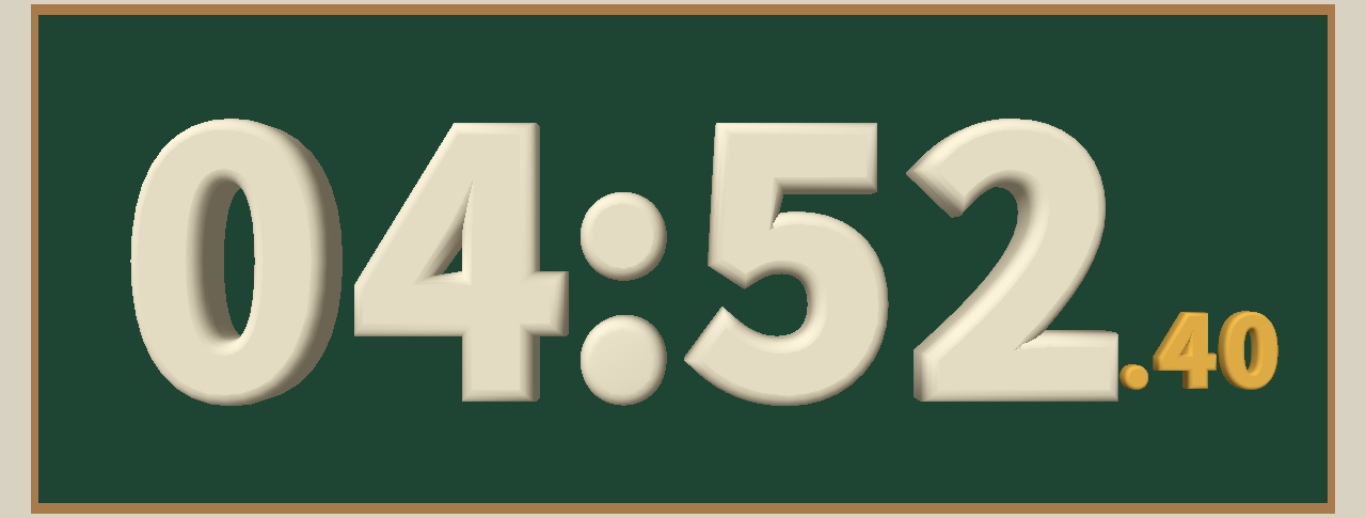
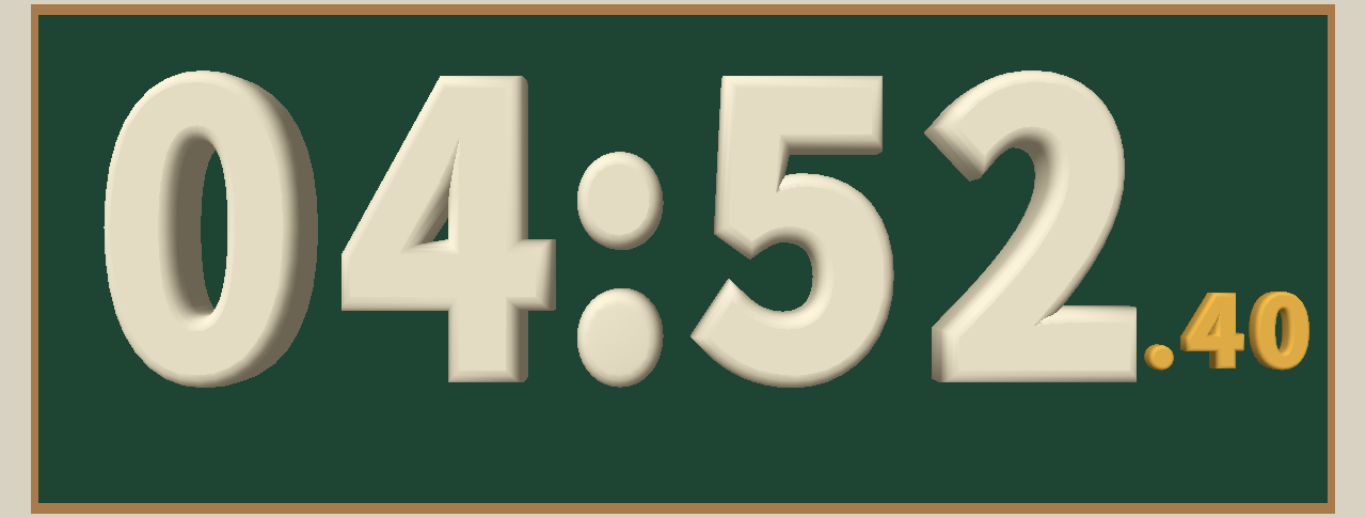
Enlarge countdown digits and align completion text across themes

Changed region(s): [[0.0615, 0.1236, 0.9839, 0.8031]]

diff --git a/dist/paper-cards.js b/dist/paper-cards.js
@@ -1,7 +1,7 @@
 // Paper is a presentation-only adapter. The scene owns the clock, RAF and draw.
 // A prepared real winner alone turns; reveal commits it without a second animation.
 import {countdownDisplay} from './space-countdown.js';
-import {countdownDigitLayout} from './countdown-digit-layout.js';
+import {countdownDigitLayout,countdownFinishLayout} from './countdown-digit-layout.js';
 
 import {PAPER_DRAW_TIMING} from './draw-timing.js';
 export {PAPER_DRAW_TIMING} from './draw-timing.js';
@@ -92,13 +92,11 @@ function rasterInkBounds(g,x,y,w,h,fallback){
 }
 function makeTimerCores(surface,chars,numeric){
  const image=surface(CORE_W*chars.length,CORE_H),g=image.getContext('2d'),cores=new Map();g.clearRect(0,0,image.width,image.height);g.fillStyle=PAPER_PALETTE.ink;g.textAlign='center';g.textBaseline='alphabetic';g.font=`600 ${TIMER_W*(numeric?.9:.76)}px ${numeric?NUMBER_FONT:FONT}`;
- const metrics=[...chars].map(char=>{const m=g.measureText(char);return {char,width:m.width,left:m.actualBoundingBoxLeft??m.width/2,right:m.actualBoundingBoxRight??m.width/2,ascent:m.actualBoundingBoxAscent??TIMER_W*(numeric?.72:.68),descent:m.actualBoundingBoxDescent??TIMER_W*(numeric?.18:0)}}),referenceH=Math.max(...metrics.map(m=>m.ascent+m.descent)),referenceW=Math.max(...metrics.map(m=>m.left+m.right)),scaleY=NUMERIC_INK_H/referenceH,scaleX=Math.min(scaleY,NUMERIC_INK_W/referenceW);
- metrics.forEach((m,index)=>{const {char,ascent,descent,left,right}=m,x=index*CORE_W;let inkBounds;
-  if(numeric){const inkW=(left+right)*scaleX,inkH=(ascent+descent)*scaleY;g.save();g.translate(x+CORE_W/2,CORE_H/2);g.scale(scaleX,scaleY);g.fillText(char,(left-right)/2,(ascent-descent)/2);g.restore();inkBounds=rasterInkBounds(g,x,0,CORE_W,CORE_H,{minX:(CORE_W-inkW)/2,maxX:(CORE_W+inkW)/2,minY:(CORE_H-inkH)/2,maxY:(CORE_H+inkH)/2})}
-  else g.fillText(char,x+CORE_W/2,CORE_H/2+(ascent-descent)/2);cores.set(char,{image,x,y:0,width:CORE_W,height:CORE_H,inkBounds})});
- // All ten glyphs share one font and one measured alphabet scale. Natural
- // overshoots remain; no digit-specific font or card sizing changes on a tick.
- if(numeric){const alphabetHeight=Math.max(...[...cores.values()].map(c=>c.inkBounds.maxY-c.inkBounds.minY)),alphabetWidth=Math.max(...[...cores.values()].map(c=>c.inkBounds.maxX-c.inkBounds.minX));for(const c of cores.values())Object.assign(c,{alphabetHeight,alphabetWidth})}
+ const metrics=[...chars].map(char=>{const m=g.measureText(char);return {char,width:m.width,left:m.actualBoundingBoxLeft??m.width/2,right:m.actualBoundingBoxRight??m.width/2,ascent:m.actualBoundingBoxAscent??TIMER_W*(numeric?.72:.68),descent:m.actualBoundingBoxDescent??TIMER_W*(numeric?.18:0)}}),referenceH=Math.max(...metrics.map(m=>m.ascent+m.descent)),referenceW=Math.max(...metrics.map(m=>m.left+m.right)),scaleY=numeric?NUMERIC_INK_H/referenceH:Math.min((CORE_H-32)/referenceH,(CORE_W-24)/referenceW),scaleX=numeric?Math.min(scaleY,NUMERIC_INK_W/referenceW):scaleY;
+ metrics.forEach((m,index)=>{const {char,ascent,descent,left,right}=m,x=index*CORE_W,inkW=(left+right)*scaleX,inkH=(ascent+descent)*scaleY;g.save();g.translate(x+CORE_W/2,CORE_H/2);g.scale(scaleX,scaleY);g.fillText(char,(left-right)/2,(ascent-descent)/2);g.restore();const inkBounds=rasterInkBounds(g,x,0,CORE_W,CORE_H,{minX:(CORE_W-inkW)/2,maxX:(CORE_W+inkW)/2,minY:(CORE_H-inkH)/2,maxY:(CORE_H+inkH)/2});cores.set(char,{image,x,y:0,width:CORE_W,height:CORE_H,inkBounds})});
+ // Each alphabet shares one measured scale. Raster bounds include real CJK
+ // strokes and numeral overshoots without resizing a card on a timer tick.
+ const alphabetHeight=Math.max(...[...cores.values()].map(c=>c.inkBounds.maxY-c.inkBounds.minY)),alphabetWidth=Math.max(...[...cores.values()].map(c=>c.inkBounds.maxX-c.inkBounds.minX));for(const c of cores.values())Object.assign(c,{alphabetHeight,alphabetWidth});
  return {image,cores}
 }
 function makeTimerCorners(surface,chars){
@@ -113,22 +111,17 @@ function makeTimerCorners(surface,chars){
 function timerComposition(display,width,height,cores){
  if(!display)return null;
  if(!display.finished)return numericTimerComposition(display,width,height,cores);
- const finished=display.finished,parts=finished?[]:display.main.split(':'),minutes=finished?'':(parts[0]||'00').padStart(2,'0'),seconds=finished?'':(parts[1]||'00').padStart(2,'0'),mainChars=finished?[...'时间到']:[...minutes+seconds].filter(char=>/^[0-9]$/.test(char)),minorChars=finished||!display.minor?[]:[...display.minor.replace(/[^0-9]/g,'').padEnd(2,'0').slice(0,2)],stacked=!finished&&minorChars.length>0&&width<600&&height>width*.64;
- const gap=.12,minorScale=.46,minorUnits=minorChars.length*minorScale+Math.max(0,minorChars.length-1)*gap*minorScale,mainUnits=finished?3+2*.16:mainChars.length+Math.max(0,mainChars.length-2)*gap+.50,bodyUnits=mainUnits+(!stacked&&minorChars.length?.23+minorUnits:0),bodyHeightUnits=1.4+(stacked?.16+minorScale*1.4:0),reservedTopSpace=Math.min(30,width*.054,height*.13)*1.4+Math.min(30,height*.055),w=Math.max(.01,Math.min(290,width*.89/bodyUnits,(height*.84-reservedTopSpace)/bodyHeightUnits)),h=w*1.4,bodyW=bodyUnits*w,bodyH=bodyHeightUnits*w,top=(height-reservedTopSpace-bodyH)/2,left=(width-bodyW)/2,cardTop=top+reservedTopSpace,mainRight=left+mainUnits*w,minorW=w*minorScale,minorH=h*minorScale,cards=[];
- const rect=(x,y,w,h)=>({minX:x,maxX:x+w,minY:y,maxY:y+h});
- function card(char,role,x,y,cw,ch){const slot=cards.length,decoration=timerDecoration(char,slot);cards.push({char,role,slot,decoration,faceKey:`${char}:${decoration.suit}`,cornerLayout:TIMER_CORNER,x:x+cw/2,y:y+ch/2,width:cw,height:ch,bounds:rect(x,y,cw,ch)})}
- let x=left;for(let i=0;i<mainChars.length;i++){if(!finished&&i===minutes.length)x+=w*.50;card(mainChars[i],finished?'finish':'main',x,cardTop,w,h);x+=w;if(i<mainChars.length-1&&(finished||i!==minutes.length-1))x+=w*(finished?.16:gap)}
- const colon=finished?null:{x:left+(minutes.length+(minutes.length-1)*gap+.25)*w,y:cardTop+h/2,size:w*.22,radius:w*.034,bounds:rect(left+(minutes.length+(minutes.length-1)*gap+.25-.034)*w,cardTop+h/2-w*.144,w*.068,w*.288)};
- let decimal=null;if(minorChars.length){const minorLeft=stacked?mainRight-minorUnits*w:mainRight+w*.23,minorTop=stacked?cardTop+h+w*.16:cardTop+h-minorH;minorChars.forEach((char,i)=>card(char,'hundredths',minorLeft+i*minorW*(1+gap),minorTop,minorW,minorH));const radius=w*.028,dx=minorLeft-w*.105,dy=minorTop+minorH-radius;decimal={x:dx,y:dy,radius,bounds:rect(dx-radius,dy-radius,radius*2,radius*2)}}
- // Retain the approved finish-card placement after removing the heading.
- const safeAreaTop=height*.09,safeAreaHeight=Math.min(64,width*.07,height*.13);
- const finishOffset=finished?Math.min(8,Math.max(0,8-(cardTop-safeAreaTop-safeAreaHeight)),Math.max(0,height*.97-cardTop-bodyH)):0;if(finishOffset)for(const c of cards){c.y+=finishOffset;c.bounds.minY+=finishOffset;c.bounds.maxY+=finishOffset}
- return {layout:{flow:finished?'finish':stacked?'stacked':'inline',colon,decimal,mainWidth:w,mainHeight:h,minorWidth:minorW,minorHeight:minorH,bodyOffsetY:finishOffset,bounds:{minX:left,maxX:left+bodyW,minY:cardTop+finishOffset,maxY:cardTop+bodyH+finishOffset}},cards}
+ const target=countdownFinishLayout(width,height),ink=target.height,reference=cores?.get('时'),alphabetHeight=reference?.alphabetHeight??NUMERIC_INK_H,alphabetWidth=reference?.alphabetWidth??NUMERIC_INK_H,gap=.12,w=Math.min(Math.max(ink*1.15,ink*alphabetWidth/alphabetHeight/.82),width*.94/(3+2*gap)),h=ink*1.36,bodyW=w*(3+2*gap),left=(width-bodyW)/2,cardTop=target.centerY-h/2,cards=[],rect=(x,y,w,h)=>({minX:x,maxX:x+w,minY:y,maxY:y+h});
+ for(const [slot,char]of [...'时间到'].entries()){
+  const x=left+slot*w*(1+gap),core=cores?.get(char),source=core?.inkBounds??{minX:0,maxX:alphabetWidth,minY:0,maxY:alphabetHeight},glyphScaleY=ink/alphabetHeight,glyphScaleX=Math.min(1,w*.82/(alphabetWidth*glyphScaleY)),glyphWidth=(source.maxX-source.minX)*glyphScaleY*glyphScaleX,glyphHeight=(source.maxY-source.minY)*glyphScaleY,decoration=timerDecoration(char,slot),cornerScale=ink*NUMERIC_CORNER_SCALE,cornerInk=core?.cornerInkBounds??{minX:14,maxX:56,minY:8,maxY:51},innerX=w*26/AW,innerY=h*26/AH,cornerLeft=innerX+w*.025,cornerTop=innerY+ink*.012,cornerWidth=(cornerInk.maxX-cornerInk.minX)*cornerScale,cornerHeight=(cornerInk.maxY-cornerInk.minY)*cornerScale;
+  cards.push({char,role:'finish',slot,decoration,faceKey:`${char}:${decoration.suit}`,cornerLayout:TIMER_CORNER,x:x+w/2,y:target.centerY,width:w,height:h,bounds:rect(x,cardTop,w,h),glyphHeight,glyphTargetHeight:ink,glyphScaleY,glyphScaleX,glyphBounds:rect(x+(w-glyphWidth)/2,target.centerY-glyphHeight/2,glyphWidth,glyphHeight),cornerScale,cornerOffsetX:cornerLeft-cornerInk.minX*cornerScale,cornerOffsetY:cornerTop-cornerInk.minY*cornerScale,innerFrameBounds:rect(x+innerX,cardTop+innerY,w-2*innerX,h-2*innerY),cornerEnvelopeBounds:[rect(x+cornerLeft,cardTop+cornerTop,cornerWidth,cornerHeight),rect(x+w-cornerLeft-cornerWidth,cardTop+h-cornerTop-cornerHeight,cornerWidth,cornerHeight)]})
+ }
+ return {layout:{flow:'finish',colon:null,decimal:null,mainWidth:w,mainHeight:h,minorWidth:0,minorHeight:0,finishTargetHeight:ink,bodyOffsetY:0,bounds:rect(left,cardTop,bodyW,h)},cards}
 }
 function numericTimerComposition(display,width,height,cores){
  const parts=display.main.split(':'),minutes=(parts[0]||'00').padStart(2,'0'),seconds=(parts[1]||'00').padStart(2,'0'),mainChars=[...minutes+seconds].filter(char=>/^[0-9]$/.test(char)),minorChars=display.minor?[...display.minor.replace(/[^0-9]/g,'').padEnd(2,'0').slice(0,2)]:[],stacked=minorChars.length>0&&width<600&&height>width*.64;
- // This fixed safe area preserves every approved numeric anchor and size.
- const target=countdownDigitLayout(width,height),ink=target.height,gap=.065,minorScale=.30,colonUnits=.26,minorUnits=minorChars.length*minorScale+Math.max(0,minorChars.length-1)*gap*minorScale,mainUnits=mainChars.length+Math.max(0,mainChars.length-2)*gap+colonUnits,bodyUnits=mainUnits+(!stacked&&minorChars.length?.16+minorUnits:0),w=Math.min(ink*.8,width*.94/bodyUnits),h=ink*1.36,minorW=w*minorScale,minorH=h*minorScale,bodyW=bodyUnits*w,bodyH=h+(stacked?w*.16+minorH:0),left=(width-bodyW)/2,rect=(x,y,w,h)=>({minX:x,maxX:x+w,minY:y,maxY:y+h}),minTop=height*.09+Math.min(64,width*.07,height*.13)+Math.min(8,Math.max(1,height*.02)),cardTop=Math.max(minTop,Math.min(height*.53-bodyH/2,height-height*.01-bodyH)),cards=[];
+ // The heading is gone, so use the full viewport for the enlarged cards.
+ const target=countdownDigitLayout(width,height),ink=target.height,gap=.065,minorScale=.30,colonUnits=.26,minorUnits=minorChars.length*minorScale+Math.max(0,minorChars.length-1)*gap*minorScale,mainUnits=mainChars.length+Math.max(0,mainChars.length-2)*gap+colonUnits,bodyUnits=mainUnits+(!stacked&&minorChars.length?.16+minorUnits:0),w=Math.min(ink*.8,width*.94/bodyUnits),h=ink*1.36,minorW=w*minorScale,minorH=h*minorScale,bodyW=bodyUnits*w,bodyH=h+(stacked?w*.16+minorH:0),left=(width-bodyW)/2,rect=(x,y,w,h)=>({minX:x,maxX:x+w,minY:y,maxY:y+h}),minTop=height*.01,cardTop=Math.max(minTop,Math.min(target.centerY-h/2,height-minTop-bodyH)),cards=[];
  function card(char,role,x,y,cw,ch,scale){const slot=cards.length,decoration=timerDecoration(char,slot),core=cores?.get(char),source=core?.inkBounds,sourceWidth=source?source.maxX-source.minX:NUMERIC_INK_W,sourceHeight=source?source.maxY-source.minY:NUMERIC_INK_H,glyphTargetHeight=ink*scale,glyphScaleY=glyphTargetHeight/(core?.alphabetHeight??NUMERIC_INK_H),glyphHeight=sourceHeight*glyphScaleY,glyphScaleX=Math.min(1,cw*.82/((core?.alphabetWidth??NUMERIC_INK_W)*glyphScaleY)),glyphWidth=sourceWidth*glyphScaleY*glyphScaleX,cornerScale=glyphTargetHeight*NUMERIC_CORNER_SCALE,cornerInk=core?.cornerInkBounds??{minX:5,maxX:110,minY:7,maxY:57},innerX=cw*26/AW,innerY=ch*26/AH,cornerLeft=innerX+cw*.025,cornerTop=innerY+glyphTargetHeight*.012,cornerWidth=(cornerInk.maxX-cornerInk.minX)*cornerScale,cornerHeight=(cornerInk.maxY-cornerInk.minY)*cornerScale;
   // A single measured envelope covers all ten ranks and four suits. Insets
   // and alphabet scaling therefore stay fixed when any displayed digit changes.
@@ -140,8 +133,7 @@ function numericTimerComposition(display,width,height,cores){
  return {layout:{flow:stacked?'stacked':'inline',colon,decimal,mainWidth:w,mainHeight:h,minorWidth:minorW,minorHeight:minorH,digitTargetHeight:ink,bodyOffsetY:0,bounds:{minX:left,maxX:left+bodyW,minY:cardTop,maxY:cardTop+bodyH}},cards}
 }
 function paintTimerCard(g,c,face,front,shadow){const {minX:x,minY:y}=c.bounds,r=c.width*.035;g.save();g.globalAlpha=.78;g.drawImage(shadow,x-c.width*.15,y-c.height*.06,c.width*1.30,c.height*1.19);g.restore();g.fillStyle='#b8a9ac';rounded(g,x,y+c.width*.010,c.width,c.height,r);g.fill();g.save();rounded(g,x,y,c.width,c.height,r);g.clip();g.translate(x,y);const {core,corner}=face;
- if(c.role==='finish'){g.scale(c.width/TIMER_W,c.height/TIMER_H);g.drawImage(front,0,0,TIMER_W,TIMER_H);g.drawImage(core.image,core.x,core.y,core.width,core.height,(TIMER_W-CORE_W)/2,(TIMER_H-CORE_H)/2,CORE_W,CORE_H);for(let i=0;i<2;i++){g.save();if(i){g.translate(TIMER_W,TIMER_H);g.rotate(Math.PI)}g.drawImage(corner.image,corner.x,corner.y,corner.width,corner.height,CORNER_X,CORNER_Y,CORNER_W,CORNER_H);g.restore()}}
- else{g.drawImage(front,0,0,c.width,c.height);const b=core.inkBounds,scale=c.glyphScaleY,dw=CORE_W*scale*c.glyphScaleX,dh=CORE_H*scale;g.drawImage(core.image,core.x,core.y,core.width,core.height,c.width/2-(b.minX+b.maxX)/2*scale*c.glyphScaleX,c.height/2-(b.minY+b.maxY)/2*scale,dw,dh);for(let i=0;i<2;i++){g.save();if(i){g.translate(c.width,c.height);g.rotate(Math.PI)}g.drawImage(corner.image,corner.x,corner.y,corner.width,corner.height,c.cornerOffsetX,c.cornerOffsetY,corner.width*c.cornerScale,corner.height*c.cornerScale);g.restore()}}
+ g.drawImage(front,0,0,c.width,c.height);const b=core.inkBounds,scale=c.glyphScaleY,dw=CORE_W*scale*c.glyphScaleX,dh=CORE_H*scale;g.drawImage(core.image,core.x,core.y,core.width,core.height,c.width/2-(b.minX+b.maxX)/2*scale*c.glyphScaleX,c.height/2-(b.minY+b.maxY)/2*scale,dw,dh);for(let i=0;i<2;i++){g.save();if(i){g.translate(c.width,c.height);g.rotate(Math.PI)}g.drawImage(corner.image,corner.x,corner.y,corner.width,corner.height,c.cornerOffsetX,c.cornerOffsetY,corner.width*c.cornerScale,corner.height*c.cornerScale);g.restore()}
  g.restore();g.strokeStyle='rgba(249,242,237,.88)';g.lineWidth=Math.min(1,c.width*.006);rounded(g,x+.4,y+.4,c.width-.8,c.height-.8,r);g.stroke()}
 function makeShadow(surface){const c=surface(320,432),g=c.getContext('2d');g.save();g.translate(160,216);g.scale(149,199);const fill=g.createRadialGradient(0,0,0,0,0,1);fill.addColorStop(0,'rgba(14,3,10,.57)');fill.addColorStop(.5,'rgba(14,3,10,.36)');fill.addColorStop(.78,'rgba(14,3,10,.12)');fill.addColorStop(1,'rgba(14,3,10,0)');g.fillStyle=fill;g.fillRect(-1,-1,2,2);g.restore();return c}
 function makeBackground(surface,w,h,dpr){const c=surface(Math.max(1,Math.round(w*dpr)),Math.max(1,Math.round(h*dpr))),g=c.getContext('2d');g.scale(dpr,dpr);const base=g.createLinearGradient(0,0,w*.3,h);base.addColorStop(0,'#462231');base.addColorStop(.6,'#351923');base.addColorStop(1,'#25131c');g.fillStyle=base;g.fillRect(0,0,w,h);const light=g.createRadialGradient(w*.46,h*.35,0,w*.46,h*.4,Math.max(w,h)*.65);light.addColorStop(0,'rgba(137,85,108,.18)');light.addColorStop(1,'rgba(18,5,13,.45)');g.fillStyle=light;g.fillRect(0,0,w,h);
@@ -202,7 +194,7 @@ export function createPaperCards(canvas,options={}){
   cards.sort((a,b)=>Number(a.selected)-Number(b.selected)||a.id-b.id)
  }
  function ensureTimerArt(finished){const cache=finished?timerFinish:timerDigits;if(cache.size)return;const chars=finished?'时间到':'0123456789',coreAtlas=makeTimerCores(surface,chars,!finished),cornerAtlas=makeTimerCorners(surface,finished?' ':chars);timerAtlases.push(coreAtlas.image,cornerAtlas.image);for(const [char,core] of coreAtlas.cores){core.cornerInkBounds=cornerAtlas.inkBounds;cache.set(char,core);const suits=finished?[SUITS[[...chars].indexOf(char)]]:SUITS;for(const suit of suits)timerFaces.set(`${char}:${suit}`,{core,corner:cornerAtlas.corners.get(`${finished?' ':char}:${suit}`)})}}
- function paintCountdown(display){ensureTimerArt(display.finished);const {layout:l,cards:timerCards}=timerComposition(display,width,height,timerDigits);
+ function paintCountdown(display){ensureTimerArt(display.finished);const {layout:l,cards:timerCards}=timerComposition(display,width,height,display.finished?timerFinish:timerDigits);
   for(const c of timerCards)paintTimerCard(g,c,timerFaces.get(c.faceKey),front,shadow);
   // Punctuation belongs to the berry table. Every changing character belongs
   // to one upright card; hundredths never animate or allocate artwork.
@@ -225,7 +217,7 @@ export function createPaperCards(canvas,options={}){
  function setActive(value){if(disposed)return;const next=!!value;if(next===active)return;active=next;if(active)render(now)}
  function setQuality(value){if(disposed)return;const next=clamp(finite(value,1),.65,1);if(next===quality)return;quality=next;resize(width,height)}
  const onMotion=e=>{reducedMotion=!!e.matches;paintKey='';render(now)};media?.addEventListener?.('change',onMotion);
- function debug(){sample();const timer=timerComposition(countdownDisplay(countdown),width,height,timerDigits),timerCount=timerDigits.size+timerFinish.size,timerBytes=timerAtlases.reduce((sum,image)=>sum+image.width*image.height*4,0);return {selectedDecoration:winner||pendingName?selectedDecoration(winner?selectedIndex:pendingIndex):null,timerLayout:timer?.layout??null,timerCards:timer?.cards??[],timerCache:{digits:timerDigits.size,finish:timerFinish.size,total:timerCount,faces:timerFaces.size,atlases:timerAtlases.length,bytes:timerBytes},mode:drawing?'drawing':winner?'selected':'idle',stage,drawing,startedAt,timing:{...timing},winner,selectedName:winner,selectedIndex,pendingName,pendingIndex,selectedSlot,resultSettling:!!winner&&transitionPhase()<1,names:[...names],countdown:countdown?{...countdown}:null,width,height,dpr,quality,active,reducedMotion,frame:frames,backend:'canvas',cardCount:cards.length,visibleCardCount:cards.length,textureCount:back&&!disposed?3+timerAtlases.length:0,selectedNameVisible:!countdown&&cards.some(c=>c.selected&&c.facing>.001),resultDuration:transitionDuration,transitionAt,layout:{...layout()},cards:cards.map(c=>({id:c.id,studentIndex:c.studentIndex,name:c.name,selected:c.selected,showName:c.showName,x:c.x,y:c.y,z:c.z,width:c.w,height:c.h,opacity:c.alpha,mute:c.mute,facing:c.facing,phase:c.phase,row:c.row,column:c.column,rank:c.rank,lift:c.lift,thickness:c.thickness,origin:{x:c.baseX,y:c.baseY,width:layout().w,height:layout().h},rotation:{x:c.rx,y:c.ry,z:c.rz},mesh:c.grid.map(p=>({...p})),frontRim:c.front.map(p=>({...p})),backRim:c.back.map(p=>({...p})),bounds:{minX:c.minX,maxX:c.maxX,minY:c.minY,maxY:c.maxY}})),resources:{surfaces:disposed?0:(back?4:0)+(background?1:0)+timerAtlases.length,backgroundBuilds,selectedPaints,cpuBytes:disposed?0:((back?ART_W*ART_H*3+320*432:0)+(background?background.width*background.height:0))*4+timerBytes}}}
+ function debug(){sample();const display=countdownDisplay(countdown),timer=timerComposition(display,width,height,display?.finished?timerFinish:timerDigits),timerCount=timerDigits.size+timerFinish.size,timerBytes=timerAtlases.reduce((sum,image)=>sum+image.width*image.height*4,0);return {selectedDecoration:winner||pendingName?selectedDecoration(winner?selectedIndex:pendingIndex):null,timerLayout:timer?.layout??null,timerCards:timer?.cards??[],timerCache:{digits:timerDigits.size,finish:timerFinish.size,total:timerCount,faces:timerFaces.size,atlases:timerAtlases.length,bytes:timerBytes},mode:drawing?'drawing':winner?'selected':'idle',stage,drawing,startedAt,timing:{...timing},winner,selectedName:winner,selectedIndex,pendingName,pendingIndex,selectedSlot,resultSettling:!!winner&&transitionPhase()<1,names:[...names],countdown:countdown?{...countdown}:null,width,height,dpr,quality,active,reducedMotion,frame:frames,backend:'canvas',cardCount:cards.length,visibleCardCount:cards.length,textureCount:back&&!disposed?3+timerAtlases.length:0,selectedNameVisible:!countdown&&cards.some(c=>c.selected&&c.facing>.001),resultDuration:transitionDuration,transitionAt,layout:{...layout()},cards:cards.map(c=>({id:c.id,studentIndex:c.studentIndex,name:c.name,selected:c.selected,showName:c.showName,x:c.x,y:c.y,z:c.z,width:c.w,height:c.h,opacity:c.alpha,mute:c.mute,facing:c.facing,phase:c.phase,row:c.row,column:c.column,rank:c.rank,lift:c.lift,thickness:c.thickness,origin:{x:c.baseX,y:c.baseY,width:layout().w,height:layout().h},rotation:{x:c.rx,y:c.ry,z:c.rz},mesh:c.grid.map(p=>({...p})),frontRim:c.front.map(p=>({...p})),backRim:c.back.map(p=>({...p})),bounds:{minX:c.minX,maxX:c.maxX,minY:c.minY,maxY:c.maxY}})),resources:{surfaces:disposed?0:(back?4:0)+(background?1:0)+timerAtlases.length,backgroundBuilds,selectedPaints,cpuBytes:disposed?0:((back?ART_W*ART_H*3+320*432:0)+(background?background.width*background.height:0))*4+timerBytes}}}
  resize(canvas.clientWidth||canvas.width||800,canvas.clientHeight||canvas.height||600);
  return {setNames,start,prepare,reveal,cancel,reset,setCountdown,resize,render,setActive,setQuality,debug,dispose(){if(disposed)return;disposed=true;media?.removeEventListener?.('change',onMotion);for(const image of [back,front,selected,shadow,background,...timerAtlases])if(image){image.width=1;image.height=1}back=front=selected=shadow=background=null;printedName=backgroundKey=paintKey='';printedIndex=-1;cards=[];cardPool.clear();timerDigits.clear();timerFinish.clear();timerFaces.clear();timerAtlases.length=0;layoutCache=null;layoutKey='';names=[];entries=[];winner='';selectedIndex=-1;clearPending();countdown=null}};
 }

diff --git a/dist/space-countdown.js b/dist/space-countdown.js
@@ -3,20 +3,20 @@
 // with an explicit continuous thickness layer. Neither path owns timer state.
 import * as THREE from './vendor/three.module.js';
 import {glyphs,units} from './board-glyphs.js';
-import {countdownDigitLayout} from './countdown-digit-layout.js';
+import {countdownDigitLayout,countdownFinishLayout} from './countdown-digit-layout.js';
 const metrics=new Map();
 function metric(char){
  if(metrics.has(char))return metrics.get(char);const data=glyphs[char];if(!data)return null;
  const points=data.outline.flatMap(([,p])=>p),xs=points.map(p=>p[0]/units),ys=points.map(p=>p[1]/units),m={advance:data.advance/units,minX:Math.min(...xs),maxX:Math.max(...xs),minY:Math.min(...ys),maxY:Math.max(...ys)};metrics.set(char,m);return m;
 }
 // Fixed spacing accommodates the widest digit (4) and its projected sidewalls.
-const mainGap=.085,minorGap=.065;
+const mainGap=.12,minorGap=.065;
 const numeralMetrics=[...'0123456789'].map(metric),numeralMinY=Math.min(...numeralMetrics.map(m=>m.minY)),numeralMaxY=Math.max(...numeralMetrics.map(m=>m.maxY)),numeralSpan=numeralMaxY-numeralMinY;
-function paintedNumeralSize(height){
+function paintedNumeralSize(height,span=numeralSpan){
  // Full Canvas silhouette: front outline, solid sidewall and upper bevel
  // stroke. Its minimum pixel widths matter on narrow/small viewports.
- let size=height/(numeralSpan+.052+.002);
- if(size*.004<.45){size=(height-.225)/(numeralSpan+.052);if(size*.052<1.4)size=(height-.225-1.4)/numeralSpan}
+ let size=height/(span+.052+.002);
+ if(size*.004<.45){size=(height-.225)/(span+.052);if(size*.052<1.4)size=(height-.225-1.4)/span}
  return Math.max(.001,size);
 }
 export function countdownDisplay(countdown){
@@ -27,7 +27,7 @@ export function countdownDisplay(countdown){
 export function countdownComposition(countdown,width,height,viewportWidth=width,viewportHeight=height){
  const display=countdownDisplay(countdown);if(!display)return null;const entries=[];
  function row(text,size,centerY,role,gap=.055){const widths=[...text].map(c=>(metric(c)?.advance??.59)*size),total=widths.reduce((a,b)=>a+b,0)+Math.max(0,widths.length-1)*gap*size;let x=(width-total)/2;[...text].forEach((char,i)=>{const m=metric(char);if(m)entries.push({char,role,size,x:x+widths[i]/2,y:centerY+(m.minY+m.maxY)*size/2});x+=widths[i]+gap*size});return total}
- if(display.finished){row(display.main,Math.min(width*.238,height*.51),height*.49,'finish',.105);return {display,entries}}
+ if(display.finished){const target=countdownFinishLayout(viewportWidth,viewportHeight),all=[...display.main].map(metric),maxY=Math.max(...all.map(m=>m.maxY)),minY=Math.min(...all.map(m=>m.minY)),size=paintedNumeralSize(target.height,maxY-minY),baseline=target.top-(viewportHeight*.49-height/2)+maxY*size+Math.max(.225,size*.002);row(display.main,size,0,'finish',.105);for(const e of entries)e.y=baseline;return {display,entries}}
  const target=countdownDigitLayout(viewportWidth,viewportHeight),size=paintedNumeralSize(target.height),mainUnits=[...display.main].reduce((s,c)=>s+(metric(c)?.advance??.59)+mainGap,0)-mainGap,minorUnits=[...display.minor].reduce((s,c)=>s+(metric(c)?.advance??.59)+minorGap,0)-minorGap,small=size*.29,mainWidth=mainUnits*size,minorWidth=Math.max(0,minorUnits)*small,gap=display.minor?size*.09:0,left=(width-mainWidth-minorWidth-gap)/2,baseline=target.top-(viewportHeight*.49-height/2)+numeralMaxY*size+Math.max(.225,size*.002);
  let x=left;for(const char of display.main){const m=metric(char);if(m){entries.push({char,role:'main',size,x:x+m.advance*size/2,y:baseline});x+=(m.advance+mainGap)*size}}
  x=left+mainWidth+gap;for(const char of display.minor){const m=metric(char);if(m){entries.push({char,role:'minor',size:small,x:x+m.advance*small/2,y:baseline});x+=(m.advance+minorGap)*small}}
@@ -38,6 +38,7 @@ function trace(g,char,x,y,size){
 }
 export function paintSpaceCountdown(g,countdown,w,h,viewportWidth=w,viewportHeight=h){
  const composition=countdownComposition(countdown,w,h,viewportWidth,viewportHeight);if(!composition)return false;
+ g.save();g.transform(.88,0,0,1,w*.06,0);
  for(const e of composition.entries){
   const depth=Math.max(1.4,e.size*.052),steps=Math.max(4,Math.ceil(depth)),minor=e.role==='minor',m=metric(e.char);
   // Opaque stacked outlines form visible sidewalls, not a blurred text shadow.
@@ -47,35 +48,35 @@ export function paintSpaceCountdown(g,countdown,w,h,viewportWidth=w,viewportHeig
   // A subpixel bevel catches the light without a flashing outline at small sizes.
   g.strokeStyle=minor?'rgba(210,231,255,.55)':'rgba(244,250,255,.68)';g.lineWidth=Math.max(.45,e.size*.004);g.stroke();
  }
- return true;
+ g.restore();return true;
 }
 function shapes(char){const path=new THREE.ShapePath();for(const [op,points] of glyphs[char].outline){const p=points.flat().map(n=>n/units);if(op==='moveTo')path.moveTo(...p);else if(op==='lineTo')path.lineTo(...p);else if(op==='curveTo')path.bezierCurveTo(...p);else if(op==='qCurveTo')path.quadraticCurveTo(...p);else if(op==='closePath')path.currentPath.closePath()}return path.toShapes(true)}
 function material(top,bottom,side=false){return new THREE.ShaderMaterial({uniforms:{top:{value:new THREE.Color(top)},bottom:{value:new THREE.Color(bottom)},isSide:{value:side?1:0}},vertexShader:'varying vec3 vNormal;varying vec3 vView;varying float vHeight;void main(){vec4 mv=modelViewMatrix*vec4(position,1.);vNormal=normalize(normalMatrix*normal);vView=normalize(-mv.xyz);vHeight=position.y;gl_Position=projectionMatrix*mv;}',fragmentShader:'uniform vec3 top;uniform vec3 bottom;uniform float isSide;varying vec3 vNormal;varying vec3 vView;varying float vHeight;void main(){vec3 n=normalize(vNormal),l=normalize(vec3(-.45,.8,1.1));float h=clamp((vHeight+.08)/.92,0.,1.);vec3 c=mix(bottom,top,smoothstep(0.,1.,h));float diffuse=.68+.32*max(dot(n,l),0.);float spec=pow(max(dot(reflect(-l,n),normalize(vView)),0.),28.);gl_FragColor=vec4(c*diffuse+vec3(spec*.2)*(1.-isSide*.65),1.);\n#include <colorspace_fragment>\n}',depthTest:true,depthWrite:true,transparent:false,toneMapped:false})}
 export function createCountdownMeshes(){
- const group=new THREE.Group();group.name='space-dimensional-countdown';group.visible=false;group.userData.role='space-countdown';const cache=new Map(),meshes=[],front=material('#ffffff','#a2b8e5'),side=material('#8dabe0','#34466f',true),minorFront=material('#eaf4ff','#78a8e0'),minorSide=material('#a3c5ef','#344f78',true),materials=[front,side,minorFront,minorSide];let lastKey='',updates=0,disposed=false,digitFitKey='',digitFit=null,digitEnvelope=null;
+ const group=new THREE.Group();group.name='space-dimensional-countdown';group.visible=false;group.userData.role='space-countdown';const cache=new Map(),meshes=[],front=material('#ffffff','#a2b8e5'),side=material('#8dabe0','#34466f',true),minorFront=material('#eaf4ff','#78a8e0'),minorSide=material('#a3c5ef','#344f78',true),materials=[front,side,minorFront,minorSide];let lastKey='',updates=0,disposed=false,digitFitKey='',digitFit=null,digitEnvelope=null,finishEnvelope=null;
  function geometry(char){if(cache.has(char))return cache.get(char);const g=new THREE.ExtrudeGeometry(shapes(char),{depth:.16,bevelEnabled:true,bevelSize:.012,bevelThickness:.014,bevelSegments:2,curveSegments:7,steps:1});g.computeBoundingBox();const b=g.boundingBox;g.translate(-(b.min.x+b.max.x)/2,0,-.16);g.computeBoundingBox();cache.set(char,g);return g}
- function fitDigits(focal,viewportWidth,viewportHeight,sourceSize){
+ function fitDigits(focal,viewportWidth,viewportHeight,sourceSize,finished=false){
   // Read the already-cached geometry once, retaining only its bevel/face
   // layers. Changing digits subsequently selects geometry, never measures it.
-  if(!digitEnvelope){const layers=new Map();for(const char of '0123456789'){const p=geometry(char).attributes.position;for(let i=0;i<p.count;i++){const z=p.getZ(i),y=p.getY(i),layer=layers.get(z)||{z,minY:Infinity,maxY:-Infinity};layer.minY=Math.min(layer.minY,y);layer.maxY=Math.max(layer.maxY,y);layers.set(z,layer)}}digitEnvelope=[...layers.values()]}
-  const key=[focal,viewportWidth,viewportHeight].join();
+  let envelope=finished?finishEnvelope:digitEnvelope;if(!envelope){const layers=new Map();for(const char of (finished?'时间到':'0123456789')){const p=geometry(char).attributes.position;for(let i=0;i<p.count;i++){const z=p.getZ(i),y=p.getY(i),layer=layers.get(z)||{z,minY:Infinity,maxY:-Infinity};layer.minY=Math.min(layer.minY,y);layer.maxY=Math.max(layer.maxY,y);layers.set(z,layer)}}envelope=[...layers.values()];if(finished)finishEnvelope=envelope;else digitEnvelope=envelope}
+  const key=[focal,viewportWidth,viewportHeight,finished].join();
   if(key!==digitFitKey){
-   const target=countdownDigitLayout(viewportWidth,viewportHeight),top=viewportHeight*.49-target.top,bottom=viewportHeight*.49-target.bottom;
+   const target=(finished?countdownFinishLayout:countdownDigitLayout)(viewportWidth,viewportHeight),top=viewportHeight*.49-target.top,bottom=viewportHeight*.49-target.bottom;
    // With the existing camera and group transform, a vertex projects as
    // screenY=.49*height-(baseline+size*y)/(1-size*z/focal). Solve its fixed
    // alphabet envelope directly; depth and bevels are part of the result.
-   const upper=Math.max(...digitEnvelope.map(p=>p.maxY+top*p.z/focal)),lower=Math.min(...digitEnvelope.map(p=>p.minY+bottom*p.z/focal)),size=target.height/(upper-lower);
+   const upper=Math.max(...envelope.map(p=>p.maxY+top*p.z/focal)),lower=Math.min(...envelope.map(p=>p.minY+bottom*p.z/focal)),size=target.height/(upper-lower);
    digitFit={size,baseline:top-size*upper};digitFitKey=key;
   }
   const ratio=digitFit.size/sourceSize;
-  for(const mesh of meshes){if(!mesh.visible||(mesh.userData.textRole!=='main'&&mesh.userData.textRole!=='minor'))continue;mesh.scale.multiplyScalar(ratio);mesh.position.x*=ratio;mesh.position.y=digitFit.baseline}
+  for(const mesh of meshes){if(!mesh.visible||(mesh.userData.textRole!=='main'&&mesh.userData.textRole!=='minor'&&mesh.userData.textRole!=='finish'))continue;mesh.scale.multiplyScalar(ratio);mesh.position.x*=ratio*.88;mesh.scale.x*=.88;mesh.position.y=digitFit.baseline}
  }
  function update(countdown,width,height,focal,viewportWidth=width,viewportHeight=height){
   const composition=countdownComposition(countdown,width,height,viewportWidth,viewportHeight);group.visible=!!composition;if(!composition){lastKey='';return false}const key=JSON.stringify([composition.display,width,height,focal,viewportWidth,viewportHeight]);if(key===lastKey)return false;
   // Precache the entire bounded alphabet on first use. Hundredths never build
   // geometry, allocate a texture, or upload a new Canvas image during playback.
   if(!cache.size)for(const char of new Set('0123456789:.时间到'))geometry(char);
-  const scale=2/focal;group.position.set(0,0,-2);group.scale.setScalar(scale);composition.entries.forEach((e,i)=>{let mesh=meshes[i];if(!mesh){mesh=new THREE.Mesh();mesh.name='space-countdown-glyph';mesh.userData.role='countdown-glyph';group.add(mesh);meshes.push(mesh)}mesh.visible=true;mesh.geometry=geometry(e.char);mesh.material=e.role==='minor'?[minorFront,minorSide]:[front,side];mesh.position.set(e.x-width/2,height/2-e.y,0);mesh.scale.setScalar(e.size);mesh.rotation.set(0,0,0);mesh.userData.char=e.char;mesh.userData.textRole=e.role});for(let i=composition.entries.length;i<meshes.length;i++)meshes[i].visible=false;if(!composition.display.finished)fitDigits(focal,viewportWidth,viewportHeight,composition.entries.find(e=>e.role==='main').size);lastKey=key;updates++;return true;
+  const scale=2/focal;group.position.set(0,0,-2);group.scale.setScalar(scale);composition.entries.forEach((e,i)=>{let mesh=meshes[i];if(!mesh){mesh=new THREE.Mesh();mesh.name='space-countdown-glyph';mesh.userData.role='countdown-glyph';group.add(mesh);meshes.push(mesh)}mesh.visible=true;mesh.geometry=geometry(e.char);mesh.material=e.role==='minor'?[minorFront,minorSide]:[front,side];mesh.position.set(e.x-width/2,height/2-e.y,0);mesh.scale.setScalar(e.size);mesh.rotation.set(0,0,0);mesh.userData.char=e.char;mesh.userData.textRole=e.role});for(let i=composition.entries.length;i<meshes.length;i++)meshes[i].visible=false;fitDigits(focal,viewportWidth,viewportHeight,composition.entries[0].size,composition.display.finished);lastKey=key;updates++;return true;
  }
  function dispose(){if(disposed)return;disposed=true;for(const g of cache.values())g.dispose();cache.clear();for(const m of materials)m.dispose();group.clear();meshes.length=0}
  return {group,update,dispose,debug:()=>({visible:group.visible,glyphs:meshes.filter(m=>m.visible&&group.visible).length,meshes:meshes.length,cachedGeometries:cache.size,materials:disposed?0:materials.length,updates,disposed})};

diff --git a/dist/board-countdown.js b/dist/board-countdown.js
@@ -1,4 +1,5 @@
 import * as THREE from 'three';
+import {countdownFinishLayout} from './countdown-digit-layout.js';
 import {glyphs,units} from './board-glyphs.js';
 // All digits are cached, genuinely extruded meshes. Updates only select geometry.
 export function createBoardCountdown(){
@@ -11,14 +12,21 @@ export function createBoardCountdown(){
  for(const c of '0123456789:.')glyph(c,true);
  const plate=new THREE.Mesh(new THREE.BoxGeometry(1,1,.07),green);plate.position.z=-.16;group.add(plate);
  const frame=new THREE.Mesh(new THREE.BoxGeometry(1,1,.12),wood);frame.position.z=-.22;group.add(frame);
- function fit(aspect){const height=Math.max(3.8,10/Math.max(.2,aspect)),width=Math.max(10,3.8*aspect);plate.scale.set(width,height,1);frame.scale.set(width+.18,height+.18,1);return {width:width+.18,height:height+.18}}
+ let finished=null,finishEnvelope=null;
+ function fit(aspect){const height=Math.max(3.8,10/Math.max(.2,aspect)),width=Math.max(10,3.8*aspect);plate.scale.set(width,height,1);frame.scale.set(width+.18,height+.18,1);if(finished)fitFinish(aspect);return {width:width+.18,height:height+.18}}
  fit(2.6);
  function line(text,size,y){const row=new THREE.Group(),spacing=.05,width=[...text].reduce((sum,c)=>sum+glyphs[c].advance/units*size,0)+(text.length-1)*spacing;let x=-width/2;for(const c of text){const mesh=new THREE.Mesh(glyph(c,'finish'),cream);mesh.scale.set(size,size,size*.65);mesh.position.set(x+glyphs[c].advance/units*size/2,y,.025);mesh.userData.countdownRelief=true;row.add(mesh);x+=glyphs[c].advance/units*size+spacing}return row}
- const finished=line('时间到',1.18,-.43);finished.visible=false;group.add(finished);
+ finished=line('时间到',1.18,-.43);finished.visible=false;group.add(finished);
+ function fitFinish(aspect){
+  if(!finishEnvelope){const layers=new Map();for(const mesh of finished.children){const p=mesh.geometry.attributes.position;for(let i=0;i<p.count;i++){const z=p.getZ(i),y=p.getY(i),v=layers.get(z)||{z,minY:Infinity,maxY:-Infinity};v.minY=Math.min(v.minY,y);v.maxY=Math.max(v.maxY,y);layers.set(z,v)}}finishEnvelope=[...layers.values()]}
+  const target=countdownFinishLayout(aspect,1),focal=.5/Math.tan(34*Math.PI/360),distance=(Math.max(3.8,10/Math.max(.2,aspect))/2+.15)/Math.tan(34*Math.PI/360)-.265,top=.5-target.top,bottom=.5-target.bottom,upper=Math.max(...finishEnvelope.map(p=>p.maxY+top*p.z*.65/focal)),lower=Math.min(...finishEnvelope.map(p=>p.minY+bottom*p.z*.65/focal)),size=target.height*distance/focal/(upper-lower),baseline=top*distance/focal-size*upper,spacing=.05,total=3*size+2*spacing;let x=-total/2;for(const mesh of finished.children){mesh.scale.set(size,size,size*.65);mesh.position.set(x+size/2,baseline,.025);x+=size+spacing}
+ }
+ fit(2.6);
  const slots=[];function slot(x,y,size,material,char){const mesh=new THREE.Mesh(glyph(char,true),material);mesh.scale.setScalar(size);mesh.position.set(x,y,.035);mesh.userData.countdownRelief=true;mesh.userData.char=char;group.add(mesh);slots.push(mesh)}
  // Fixed centers, independent of the width of any glyph, keep every column steady.
- [-3.32,-1.64,-.44,.76,2.44].forEach((x,i)=>slot(x,-.95,i===2?2.42:2.50,cream,'03:00'[i]));
- [3.41,3.79,4.27].forEach((x,i)=>slot(x,-.95,.7,gold,'.00'[i]));
+ [-3.32,-1.64,-.44,.76,2.44].forEach((x,i)=>slot(x*1.055,-.80,i===2?2.662:2.75,cream,'03:00'[i]));
+ for(const mesh of slots)mesh.scale.x*=.90;
+ [3.41,3.79,4.27].forEach((x,i)=>slot(x*1.055,-.80,.7,gold,'.00'[i]));
  let lastState='ready';
  function update({text,state,hundredths='00'}){let changed=false;const chars=text+'.'+hundredths;slots.forEach((mesh,i)=>{const c=chars[i];if(c&&c!==mesh.userData.char){mesh.geometry=glyph(c,true);mesh.userData.char=c;changed=true}});if(state!==lastState){finished.visible=state==='finished';for(const mesh of slots)mesh.visible=state!=='finished';lastState=state;changed=true}return changed}
  update({text:'03:00',state:'ready'});return {group,update,fit,slots,geometryCount:()=>cache.size};

diff --git a/dist/countdown-digit-layout.js b/dist/countdown-digit-layout.js
@@ -1,4 +1,4 @@
-// Screen-space reference for main numerals, taken from the unchanged classroom
+// Screen-space reference for main numerals, taken from the classroom
 // board at its settled camera endpoint. These are the extremal Y/Z vertices of
 // its cached 0–9 extrusions (0 supplies the envelope), including every bevel
 // layer. Keeping a fixed alphabet envelope avoids resizing on each timer tick.
@@ -22,6 +22,9 @@ export function countdownDigitLayout(width,height){
  // projection, leaving this same fitted distance for every endpoint viewport.
  const fitted=(Math.max(3.8,10/Math.max(.2,width/height))/2+.15)/halfFov,focal=height/(2*halfFov);
  let top=Infinity,bottom=-Infinity;
- for(const [z,minY,maxY]of layers){const pixels=focal/(fitted-.24-.035-2.5*z);top=Math.min(top,height/2-(-.95+2.5*maxY)*pixels);bottom=Math.max(bottom,height/2-(-.95+2.5*minY)*pixels)}
+ for(const [z,minY,maxY]of layers){const pixels=focal/(fitted-.24-.035-2.75*z);top=Math.min(top,height/2-(-.80+2.75*maxY)*pixels);bottom=Math.max(bottom,height/2-(-.80+2.75*minY)*pixels)}
  return {height:bottom-top,top,bottom,centerY:(top+bottom)/2};
 }
+
+// The completion alphabet uses the same screen-space reference in every theme.
+export function countdownFinishLayout(width,height){const ink=countdownDigitLayout(width,height).height*.85,centerY=height*.48;return {height:ink,top:centerY-ink/2,bottom:centerY+ink/2,centerY}}

diff --git a/README.md b/README.md
@@ -6,7 +6,7 @@
 
 ## 场景预览
 
-以下六张图片使用本次源码的原生 Canvas / 软件渲染路径生成，展示演示名单下的点名与倒计时场景。它们不是浏览器整页截图，不包含底部操作栏，也不代表浏览器 GPU 或触摸布局验收。倒计时标题已移除，数字位置、大小及“时间到”结束状态保持不变。
+以下六张图片使用本次源码的原生 Canvas / 软件渲染路径生成，展示演示名单下的点名与倒计时场景。它们不是浏览器整页截图，不包含底部操作栏，也不代表浏览器 GPU 或触摸布局验收。倒计时标题已移除；三主题主数字按相同实际可见字高适度放大并上移，“时间到”也采用统一的可见字高。各主题保留自己的材质，纸牌保留完整双边框。
 
 ### 晴窗教室
 
